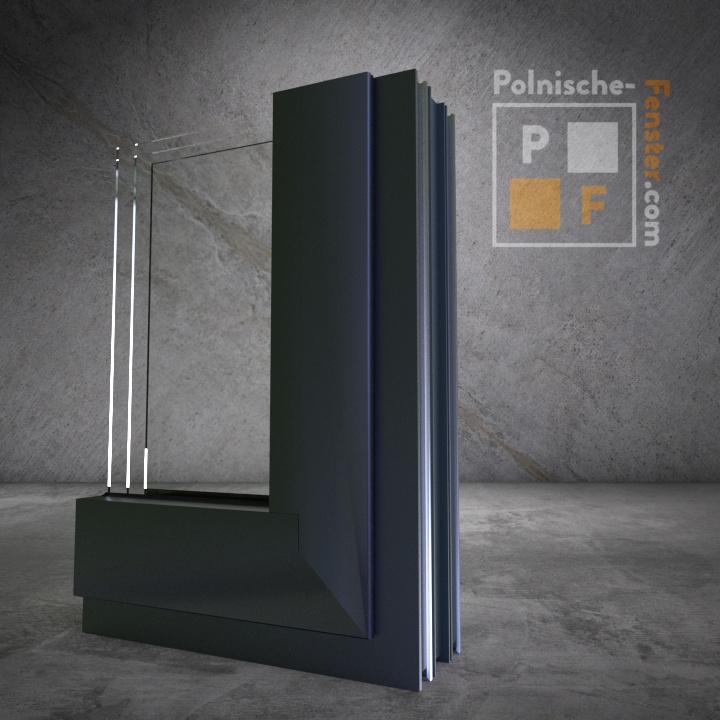
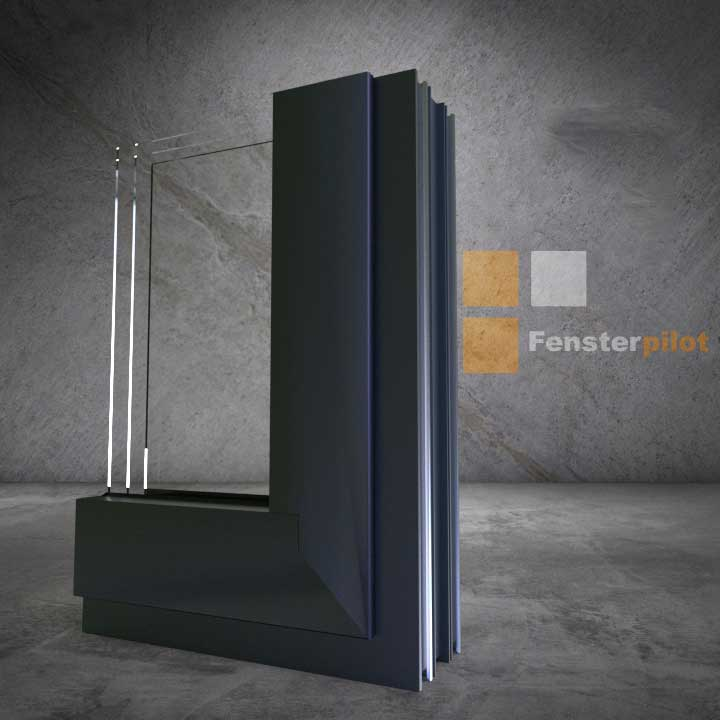
Aluprof FP

Changed region(s): [[0.6417, 0.0917, 1.0, 0.5194]]

diff --git a/components/ui/aluprofdiv.js b/components/ui/aluprofdiv.js
@@ -48,30 +48,7 @@ function aluprofdiv() {
       opis="Aluminium Aluprof MB 86"
       pic="/pics/producticons/mb86.png"
     />,
-    <ProductLink
-      linktext="Ponzio PE 68N"
-      href="/products/pe68"
-      opis="Aluminium Ponzio PE 68"
-      pic="/pics/producticons/pe68.png"
-    />,
-    <ProductLink
-      linktext="Ponzio PE 78N"
-      href="/products/pe78"
-      opis="Aluminium Ponzio PE 78"
-      pic="/pics/producticons/pe78.png"
-    />,
-    <ProductLink
-      linktext="Schüco AWS 75 SI"
-      href="/products/aws75"
-      opis="Aluminium Schüco AWS 75"
-      pic="/pics/producticons/aws75.png"
-    />,
-    <ProductLink
-      linktext="Schüco AWS 90 SI"
-      href="/products/aws90"
-      opis="Aluminium Schüco AWS 90"
-      pic="/pics/producticons/aws90.png"
-    />,
+ 
   ];
 
   const family2 = [
@@ -87,30 +64,7 @@ function aluprofdiv() {
       opis="Aluminium Aluprof MB 70"
       pic="/pics/producticons/mb70.png"
     />,
-    <ProductLink
-      linktext="Ponzio PE 78N"
-      href="/products/pe78"
-      opis="Aluminium Ponzio PE 78"
-      pic="/pics/producticons/pe78.png"
-    />,
-    <ProductLink
-      linktext="Ponzio PE 68N"
-      href="/products/pe68"
-      opis="Aluminium Ponzio PE 68"
-      pic="/pics/producticons/pe68.png"
-    />,
-    <ProductLink
-      linktext="Schüco AWS 75 SI"
-      href="/products/aws75"
-      opis="Aluminium Schüco AWS 75"
-      pic="/pics/producticons/aws75.png"
-    />,
-    <ProductLink
-      linktext="Schüco AWS 90 SI"
-      href="/products/aws90"
-      opis="Aluminium Schüco AWS 90"
-      pic="/pics/producticons/aws90.png"
-    />,
+   
   ];
 
   return (
@@ -147,9 +101,9 @@ function aluprofdiv() {
         </div>
 
         <div className="w-100 w-50-l ma1 pa2">
-          <video width="100%" controls>
+          {/* <video width="100%" controls>
             <source src="./movies/mb70.mp4" type="video/mp4" />
-          </video>
+          </video> */}
         </div>
 
         <div className="w-100 w-40-l ma1 pa2">
@@ -196,9 +150,9 @@ function aluprofdiv() {
         </div>
 
         <div className="w-100 w-50-l ma1 pa2">
-          <video width="100%" controls>
+         {/*  <video width="100%" controls>
             <source src="./movies/mb86.mp4" type="video/mp4" />
-          </video>
+          </video> */}
         </div>
 
         <div className="w-100 w-40-l ma1 pa2">

diff --git a/pages/products/mb86.js b/pages/products/mb86.js
@@ -44,13 +44,7 @@ function Mb86() {
     return windowSize;
   }
 
-  const similar = [
-    <ProductLink linktext="Aluprof MB 70 HI" href="/products/mb70" opis="Aluminium Aluprof MB 70" pic="/pics/producticons/mb70.png"/>,
-    <ProductLink linktext="Ponzio PE 68N" href="/products/pe68" opis="Aluminium Ponzio PE 68" pic="/pics/producticons/pe68.png"/>,
-    <ProductLink linktext="Ponzio PE 78N" href="/products/pe78" opis="Aluminium Ponzio PE 78" pic="/pics/producticons/pe78.png"/>,
-    <ProductLink linktext="Schüco AWS 75 SI" href="/products/aws75" opis="Aluminium Schüco AWS 75" pic="/pics/producticons/aws75.png"/>,
-    <ProductLink linktext="Schüco AWS 90 SI" href="/products/aws90" opis="Aluminium Schüco AWS 90" pic="/pics/producticons/aws90.png"/>,
-  ];
+  
 
   const together = [
     <ProductLink linktext="Vorsatz Raffstoren" href="/products/raf" opis="C80 oder Z90, Unterputz, Überputz" pic="/pics/producticons/raf.png"/>,
@@ -64,7 +58,7 @@ function Mb86() {
   return (
     <Fragment>
       <Head>
-        <title>Polnische Fenster Aluminium Aluprof MB 86 SI</title>
+        <title>Fensterpilot Aluminium Aluprof MB 86 SI</title>
         <meta
           name="description"
           content="Aluminium Fenster Aluprof MB 86 SI. 3d Visualisierung"
@@ -114,22 +108,16 @@ function Mb86() {
 
       <div className="flex flex-wrap justify-around mb3 mh4-l mt5 w-100 tc">
         <div className="w-100 w-50-l ma1 pa2 tc">
-          <video width="100%" controls>
+         {/*  <video width="100%" controls>
             <source src="../../movies/mb86.mp4" type="video/mp4" />
-          </video>
+          </video> */}
         </div>
         <div className="w-100 w-40-l ma1 pa2">
         <Image src={image_querschnitt} alt="Aluprof MB 86 SI" />
         </div>
       </div>
 
-      <Carousel
-        show={Math.floor((size.width - 50) / 186)}
-        title="Ähnliche Produkte:"
-      >
-        {similar}
-      </Carousel>
-
+    
       <Carousel
         show={Math.floor((size.width - 50) / 186)}
         title="Beschattung:"

diff --git a/pages/products/mb70.js b/pages/products/mb70.js
@@ -44,13 +44,7 @@ function Mb70() {
     return windowSize;
   }
 
-  const similar = [
-    <ProductLink linktext="Aluprof MB 86 SI" href="/products/mb86" opis="Aluminium Aluprof MB 86" pic="/pics/producticons/mb86.png"/>,
-    <ProductLink linktext="Ponzio PE 68N" href="/products/pe68" opis="Aluminium Ponzio PE 68" pic="/pics/producticons/pe68.png"/>,
-    <ProductLink linktext="Ponzio PE 78N" href="/products/pe78" opis="Aluminium Ponzio PE 78" pic="/pics/producticons/pe78.png"/>,
-    <ProductLink linktext="Schüco AWS 75 SI" href="/products/aws75" opis="Aluminium Schüco AWS 75" pic="/pics/producticons/aws75.png"/>,
-    <ProductLink linktext="Schüco AWS 90 SI" href="/products/aws90" opis="Aluminium Schüco AWS 90" pic="/pics/producticons/aws90.png"/>,
-  ];
+ 
 
   const together = [
     <ProductLink linktext="Vorsatz Raffstoren" href="/products/raf" opis="C80 oder Z90, Unterputz, Überputz" pic="/pics/producticons/raf.png"/>,
@@ -64,7 +58,7 @@ function Mb70() {
   return (
     <Fragment>
       <Head>
-        <title>Polnische Fenster Aluminium Aluprof MB 70 HI</title>
+        <title>Fensterpilot Aluminium Aluprof MB 70 HI</title>
         <meta
           name="description"
           content="Aluminium Fenster Aluprof MB 70 HI. 3d Visualisierung"
@@ -112,21 +106,16 @@ function Mb70() {
 
       <div className="flex flex-wrap justify-around mb3 mh4-l mt5 w-100 tc">
         <div className="w-100 w-50-l ma1 pa2 tc">
-          <video width="100%" controls>
+          {/* <video width="100%" controls>
             <source src="../../movies/mb70.mp4" type="video/mp4" />
-          </video>
+          </video> */}
         </div>
         <div className="w-100 w-40-l ma1 pa2">
         <Image src={image_querschnitt} alt="Aluprof MB 70 HI" />
         </div>
       </div>
 
-      <Carousel
-        show={Math.floor((size.width - 50) / 186)}
-        title="Ähnliche Produkte:"
-      >
-        {similar}
-      </Carousel>
+     
 
       <Carousel
         show={Math.floor((size.width - 50) / 186)}
